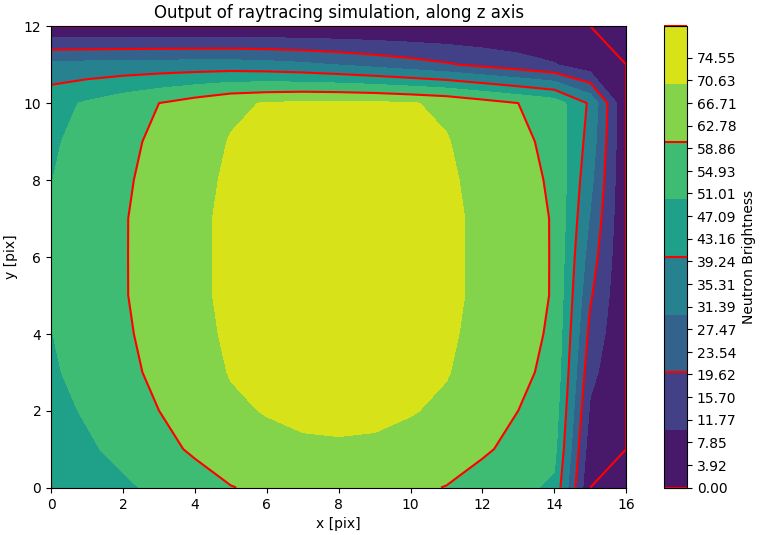
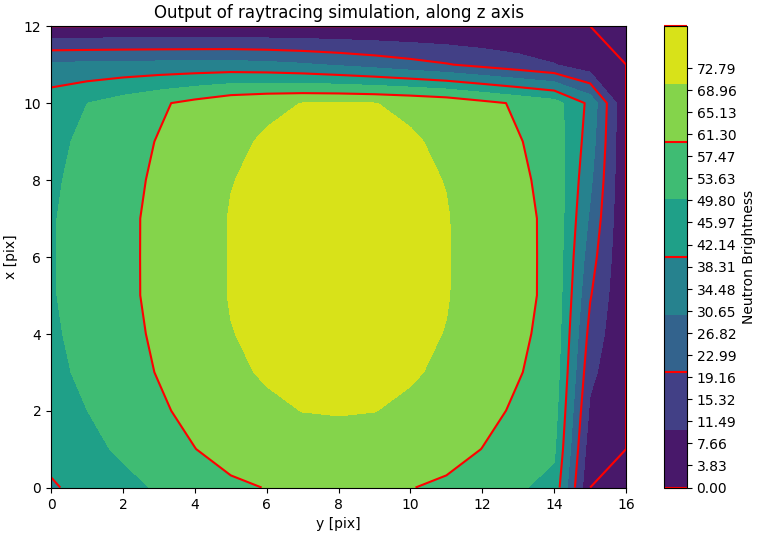
Progress save

diff --git a/main.py b/main.py
@@ -11,8 +11,8 @@ import os
 # # Put the input file path and file names here
 DATA_PATH = "E:/Documents and stuff/School_Stuff/_CSNS/PNI/COMSOL6.0(64bit)/Simulations/"
 # DATA_FILE = "Horseshoe.txt"
-# DATA_FILE = "bar_magnet.txt"
-DATA_FILE = "empty.txt"
+DATA_FILE = "bar_magnet.txt"
+# DATA_FILE = "empty.txt"
 
 # # Defines a source profile
 # # To use a uniform source profile, set SOURCE_PROFILE to None
@@ -21,14 +21,17 @@ DATA_FILE = "empty.txt"
 SOURCE_PROFILE = "gaussian"
 
 # # Specify in which axis is the neutron beam projected
-AXIS = "z" # Axis to be raytraced along, must be "x", "y", or "z"
+AXIS = "x" # Axis to be raytraced along, must be "x", "y", or "z"
+
+# # Physisc settings
+INITIAL_POLARIZATION = 0.85 # Initial polarization rate of the neutron
+WAVELENGTH = 7
 
 # # Misc settings
-PLOT_NAME = 'background'
+PLOT_NAME = 'sim'
 PLOT_FIELD_FIRST = False # If true, generates a plot of the field before raytracing
 SHOW_PROGRESS = True # If true, prints the progress
 
-INITIAL_POLARIZATION = 1
 
 # Execution code
 if __name__ == "__main__":
@@ -49,7 +52,7 @@ if __name__ == "__main__":
     field_loc = np.transpose(field_loc, axis_rot[AXIS])
     field = np.transpose(field, axis_rot[AXIS])
 
-    space_dim = np.shape(field)[0:3] # NOTE: this works
+    space_dim = np.shape(field)[0:3]
     print(f"The size of the space is {space_dim}")
     space_dim = np.array(space_dim) + [space_dim[0]//10, space_dim[1]//10, space_dim[2]//10]
 
@@ -108,7 +111,7 @@ if __name__ == "__main__":
     print(f"{completion} - Processing complete."
           f"Total time taken: {completion - start_time}")
 
-    PLOT_AXIS = "zxy".replace(AXIS, '')
+    PLOT_AXIS = "zyx".replace(AXIS, '')
 
     # Make the plot
     size = (space_dim[2] + 1.5, space_dim[1])/max(space_dim[1:3]) * 7
@@ -127,6 +130,8 @@ if __name__ == "__main__":
 
     if PLOT_NAME == '' or PLOT_NAME is None:
         PLOT_NAME = 'result'
+    else:
+        PLOT_NAME = f'{PLOT_NAME} {WAVELENGTH}A {int(INITIAL_POLARIZATION*100)}P'
 
     plt.savefig(f"plots/{PLOT_NAME} {AXIS}.png")
     print(f"{datetime.now()} - Plot saved as {PLOT_NAME} {AXIS}.png")

diff --git a/ray_tracing_fns.py b/ray_tracing_fns.py
@@ -4,6 +4,7 @@ import numpy as np
 import cupy as cp
 import config
 import config_fns
+import main
 
 def make_ray(b_field, start_pos, dir_vec):
     """Simulates a ray of neutron passing through the field space.
@@ -107,23 +108,11 @@ def ray_tracing_sim(field, pixel_pos, source):
             path_field, field_path = ray
 
         # Get each ray's polarization
-        p_ray = config_fns.find_polarization(path_field, config.WAVELENGTH)
+        p_ray = config_fns.find_polarization(path_field, main.WAVELENGTH)
         # NOTE: for now, the polarizatin is a scalar. In the future, it could be a vector.
-
-        # has_nan = len(np.where((p_ray == np.nan))[0]) == 0
-        # if has_nan is True:
-            # continue
-
-        # Get the intensity of the ray
-        p_ray = np.linalg.norm(p_ray)
 
         i_ray = source_val * 0.5 * (p_ray - 1)
 
         i_pix += i_ray
-
-        ray_time = datetime.now() - ray_start
-
-    # rng = np.random.rand()
-    # i_pix += rng
 
     return i_pix

diff --git a/config_fns.py b/config_fns.py
@@ -114,14 +114,19 @@ def find_polarization(path_field, wavelength):
     Returns:
         float: The polarization rate of the neutron.
     """
-    GAMMA = 1.83247179 * 10**8
-    h = 6.626e-34
-    m = 1.675e-27
-    field_integral = np.sum(path_field, axis=0) # In Tesla
+    GAMMA = 1.83247171 * 10**8 # s^-1 T^-1
+    h = 6.626 * 10**-34 # J*s
+    m = 1.674 * 10**-27 # kg
+    field_integral = np.sum(path_field, axis=0) # In the same unit as COMSOL's export
     temp = GAMMA * m / h * field_integral
+    wavelength = wavelength * 10**-10 # m
     dP = temp**2 * wavelength**2
 
+    dP = (dP[0]**2 + dP[1]**2 + dP[2]**2)**0.5 * 0.001
+    # print(dP)
     P = (1 - dP) * main.INITIAL_POLARIZATION
+
+    # print(P)
 
     return P
 

diff --git a/debug.py b/debug.py
@@ -1,6 +1,8 @@
 """Testing ground for new features, or to run a specific function and see what's wrong with it"""
 import numpy as np
 
-test = (6, 8, 10, 3)
+GAMMA = 1.83247179 * 10**8
+h = 6.626e-34
+m = 1.675e-27
 
-print(test[0:3])
+print(GAMMA * m / h)

diff --git a/config.py b/config.py
@@ -4,7 +4,8 @@
 MAX_ANGLE = 30
 GAMMA = 1.83247179 * 10**8 # Neutron gyromagnetic ratio in rad/s/T
 space_dim = (20, 20, 20)
-WAVELENGTH = 1
+
+# Gaussian beam parameters
 SOURCE_STD = (1, 1)
 SOURCE_NORM = (0.5, 0.5)
 
